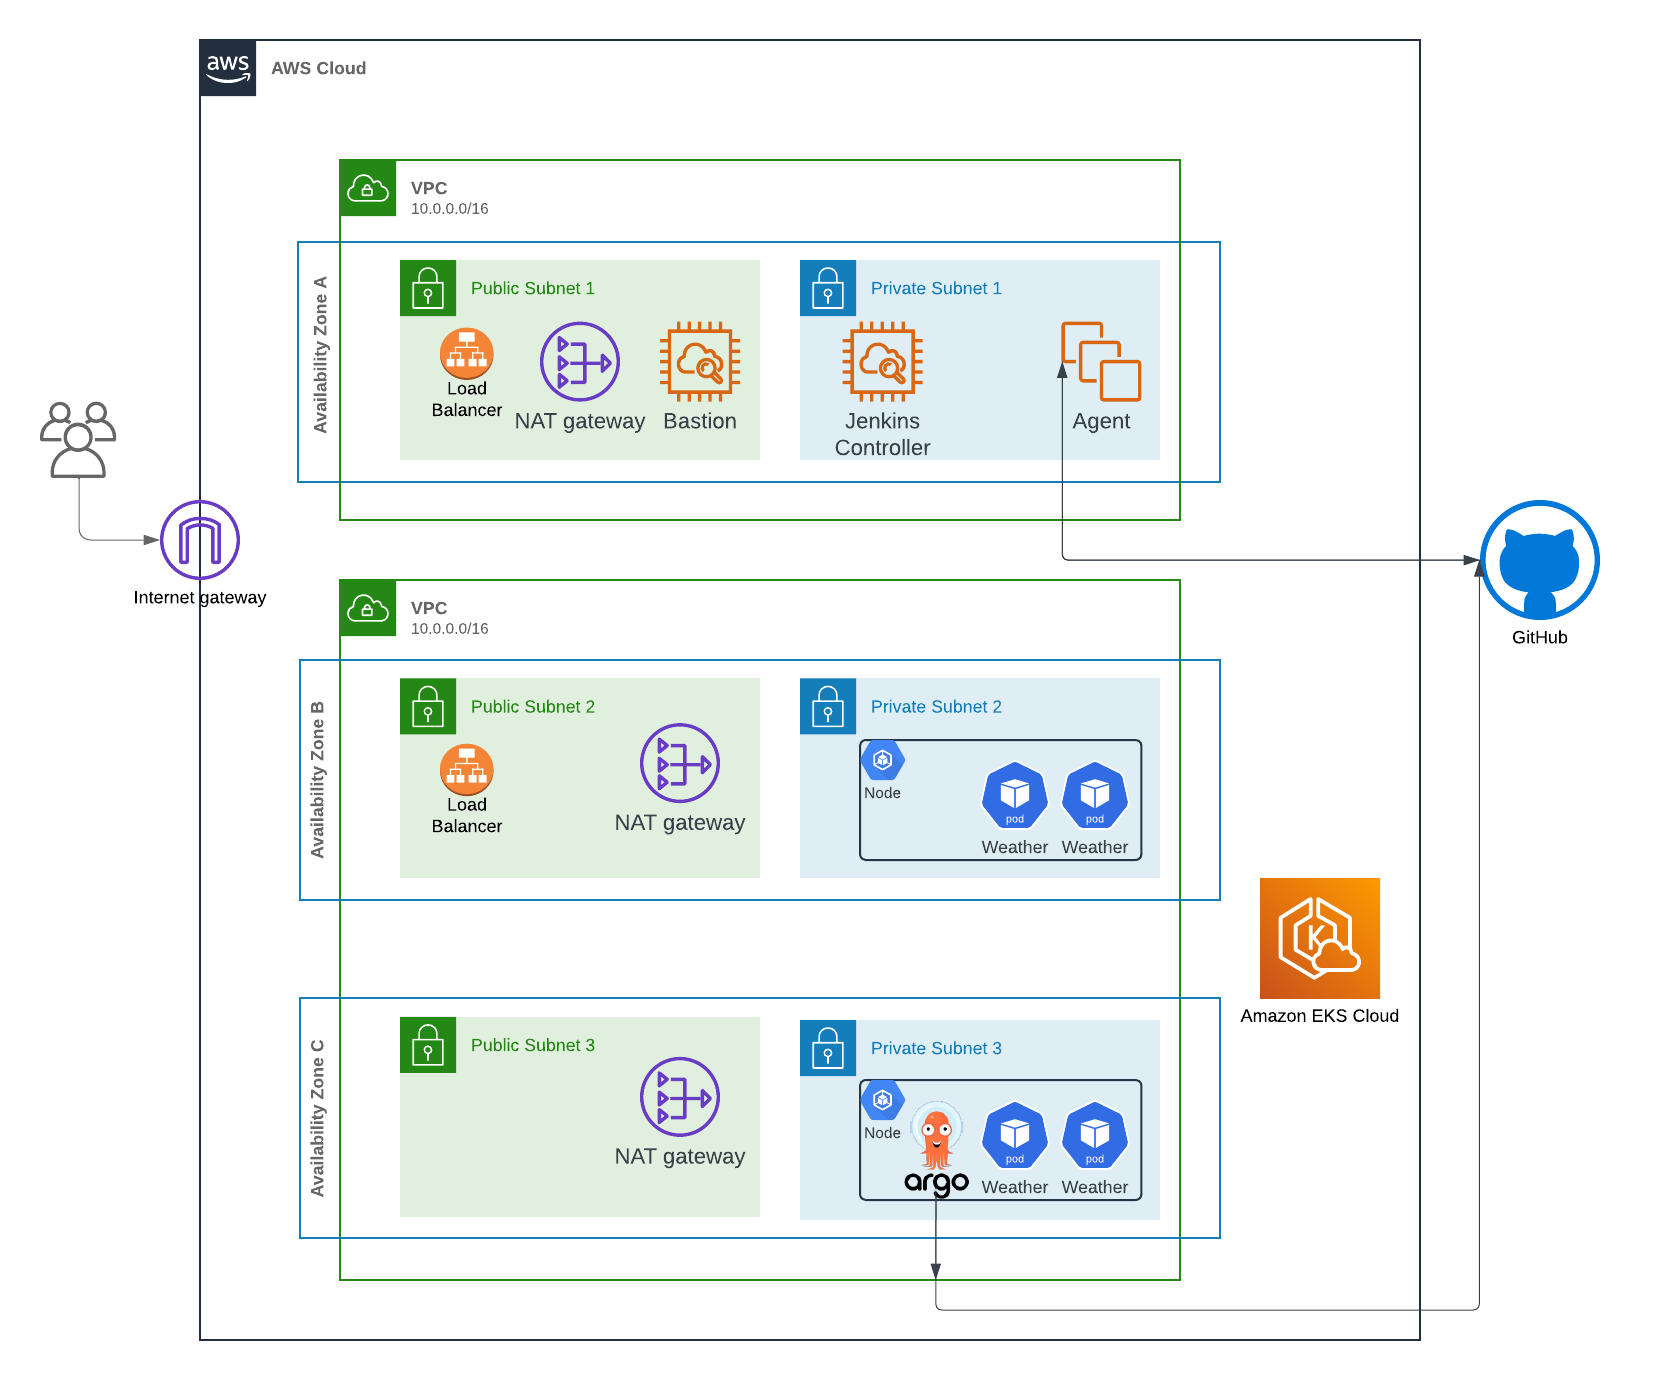
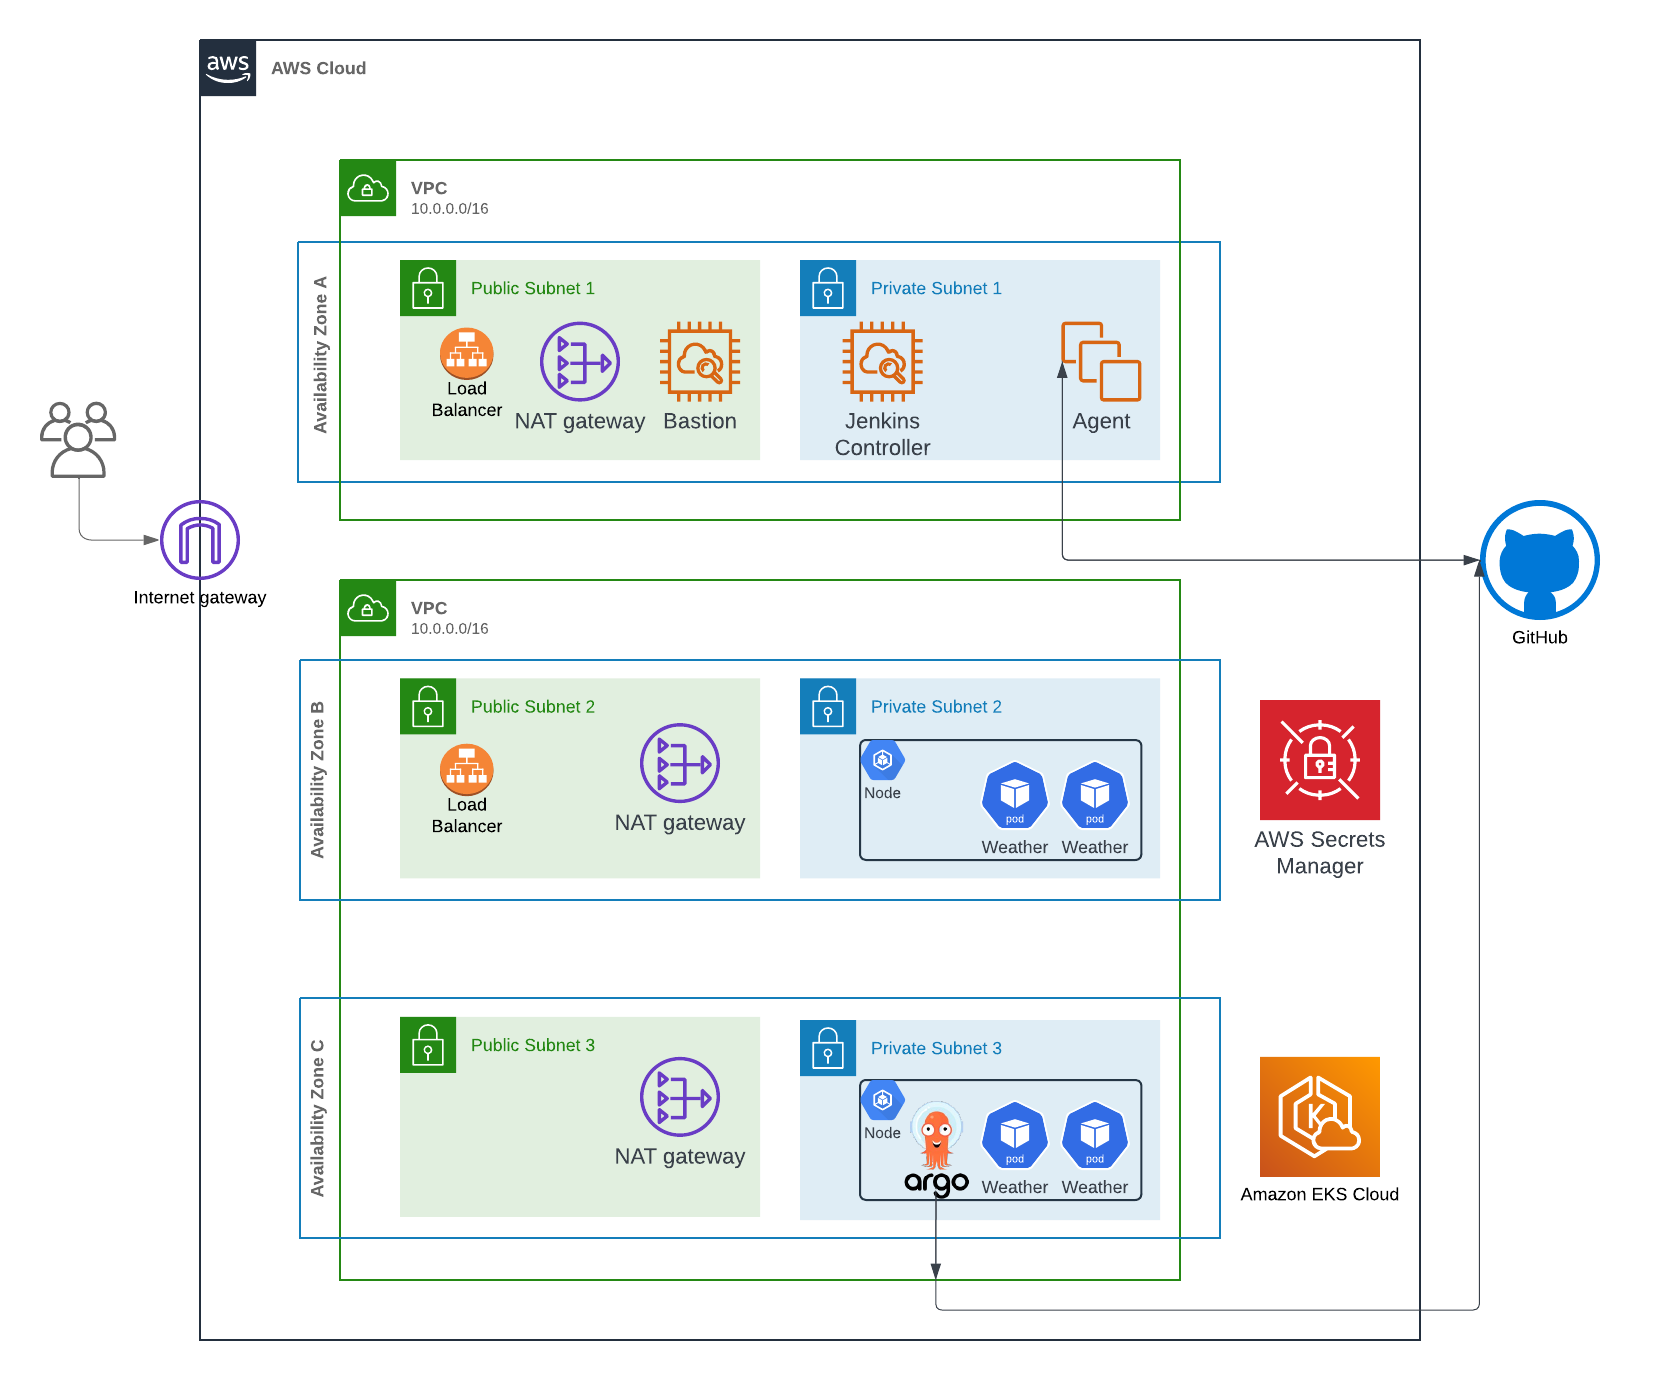
added secret manager to arch diagram

Changed region(s): [[0.7473, 0.4986, 0.8407, 0.8725]]

diff --git a/README.md b/README.md
@@ -71,7 +71,7 @@ The assignment required creating a Jenkins process based on a declarative Jenkin
 
 A full CI/CD pipeline was implemented using Jenkins and Docker. The pipeline automates the process of building a Docker image for the Python application, pushing it to Docker Hub, and then updating the Kubernetes deployment by modifying the `values.yaml` file in the corresponding GitHub repository.
 
-![Pipeline Diagram](./Pipeline.png)
+![Pipeline Diagram](./pipeline.png)
 
 Additionally, a certificate was added for HTTPS, created using the following OpenSSL command:
 
